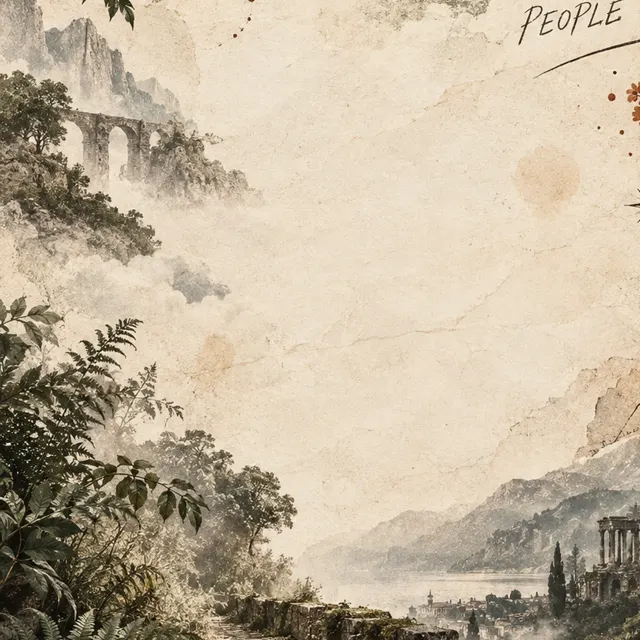
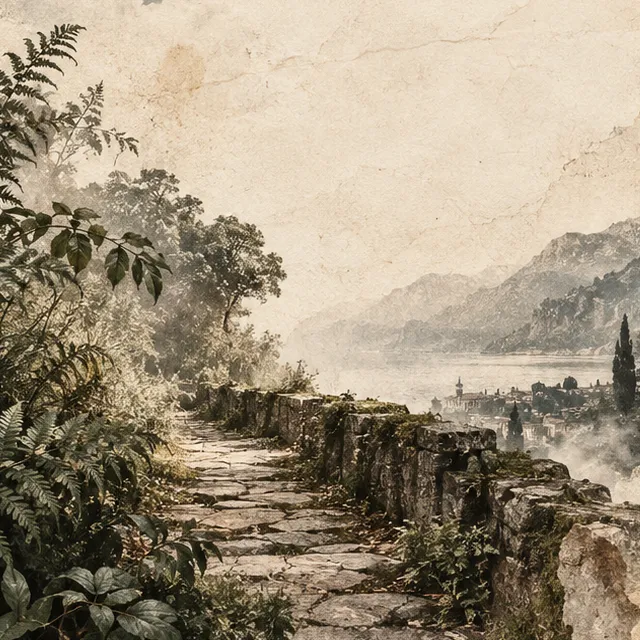
Correct Dream Atlas decorative layout

diff --git a/client/src/index.css b/client/src/index.css
@@ -7213,8 +7213,8 @@
   color: #0e0c06;
   font-family: var(--font-sans);
 }
-.atlas-detail { position: absolute; z-index: 0; height: auto; pointer-events: none; mix-blend-mode: multiply; }
-.atlas-detail--mall { top: 13.5rem; right: max(0rem, calc((100% - 64rem) / 2)); width: 14rem; }
+.atlas-detail { position: absolute; z-index: 0; height: auto; pointer-events: none; mix-blend-mode: multiply; -webkit-mask-image: radial-gradient(ellipse 88% 82% at center, #000 58%, transparent 100%); mask-image: radial-gradient(ellipse 88% 82% at center, #000 58%, transparent 100%); }
+.atlas-detail--mall { top: calc(3.5rem + .8rem); right: 0; width: 14rem; }
 .atlas-detail--key { bottom: 5rem; left: max(0rem, calc((100% - 64rem) / 2)); width: 12rem; }
 .atlas-detail--village { right: max(0rem, calc((100% - 64rem) / 2)); bottom: 5rem; width: 19rem; }
 .atlas-page > :not(.atlas-detail) { position: relative; z-index: 1; }
@@ -7228,7 +7228,7 @@
 .atlas-sketch svg { width: 4.2rem; height: 4.2rem; stroke-width: .75; }
 .atlas-sketch span { padding-top: .5rem; font-family: var(--font-display); font-size: 1rem; font-style: italic; line-height: 1.35; transform: rotate(-4deg); }
 
-.atlas-tools { width: min(100%, 64rem); margin: 0 auto 2rem; }
+.atlas-tools { position: relative; width: min(100%, 64rem); margin: 0 auto 2rem; }
 .atlas-tools label { display: flex; width: min(100%, 34rem); min-height: 3.5rem; align-items: center; gap: .8rem; padding: 0 1.25rem; border: 1px solid rgba(14,12,6,.5); border-radius: 99rem; }
 .atlas-tools label svg { width: 1.2rem; }
 .atlas-tools input { width: 100%; border: 0; outline: 0; background: transparent; color: #0e0c06; font-size: 1rem; }
@@ -7271,7 +7271,7 @@
 
 @media (max-width: 640px) {
   .atlas-page { padding-top: 1.6rem; }
-  .atlas-detail--mall { top: 11.5rem; right: -.3rem; width: 10.5rem; }
+  .atlas-detail--mall { top: calc(3.5rem + .8rem); right: -.3rem; width: 8.5rem; }
   .atlas-detail--key { bottom: 5.25rem; left: -.25rem; width: 9.5rem; }
   .atlas-detail--village { right: -.25rem; bottom: 5.25rem; width: 13rem; }
   .atlas-detail--water { top: 11rem; right: -.75rem; width: 7.5rem; opacity: .68; }

diff --git a/client/src/pages/dream-atlas.tsx b/client/src/pages/dream-atlas.tsx
@@ -86,7 +86,6 @@ export default function DreamAtlas() {
 
   return (
     <main className="atlas-page" data-testid="dream-atlas-page">
-      <img className="atlas-detail atlas-detail--mall" src={mallDetail} alt="" aria-hidden="true" />
       <img className="atlas-detail atlas-detail--key" src={keyDetail} alt="" aria-hidden="true" />
       <img className="atlas-detail atlas-detail--village" src={villageDetail} alt="" aria-hidden="true" />
       <header className="atlas-header">
@@ -102,6 +101,7 @@ export default function DreamAtlas() {
       <section className="atlas-tools" aria-label="Atlas controls">
         <label><Search aria-hidden="true" /><input value={query} onChange={(event) => setQuery(event.target.value)} placeholder="Search your dreamworld" /></label>
         <div><button className={sort === "visited" ? "is-active" : ""} onClick={() => setSort("visited")}>Most visited</button><button className={sort === "recent" ? "is-active" : ""} onClick={() => setSort("recent")}>Recently visited</button></div>
+        <img className="atlas-detail atlas-detail--mall" src={mallDetail} alt="" aria-hidden="true" />
       </section>
 
       {isLoading ? <p className="atlas-empty">Opening your dreamworld…</p> : filtered.length === 0 ? (

diff --git a/client/src/App.tsx b/client/src/App.tsx
@@ -1500,6 +1500,7 @@ function AuthenticatedApp() {
   const [isOpening, setIsOpening] = useState(true);
   const { paywallRequest, closePaywall } = useSubscription();
   const isDiscover = location === "/discover";
+  const isAtlas = location === "/atlas";
 
   const isDreamDecoder =
     location === "/dream" ||
@@ -1584,7 +1585,7 @@ function AuthenticatedApp() {
             />
           </header>
           <LunarNotificationSync />
-          <DreamGateSymbolBackground />
+          {!isAtlas && <DreamGateSymbolBackground />}
           <main className="relative z-10 min-h-0 flex-1">
             <AppRoutes />
           </main>
